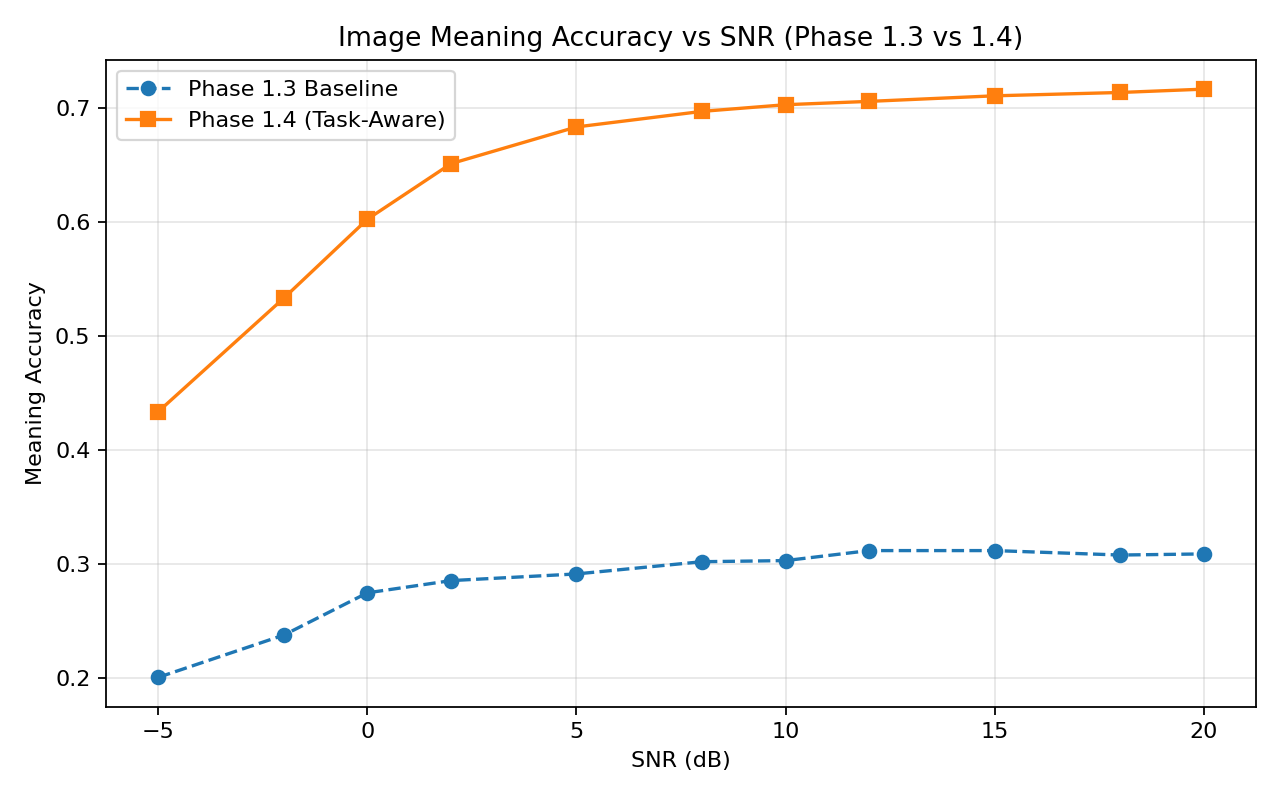
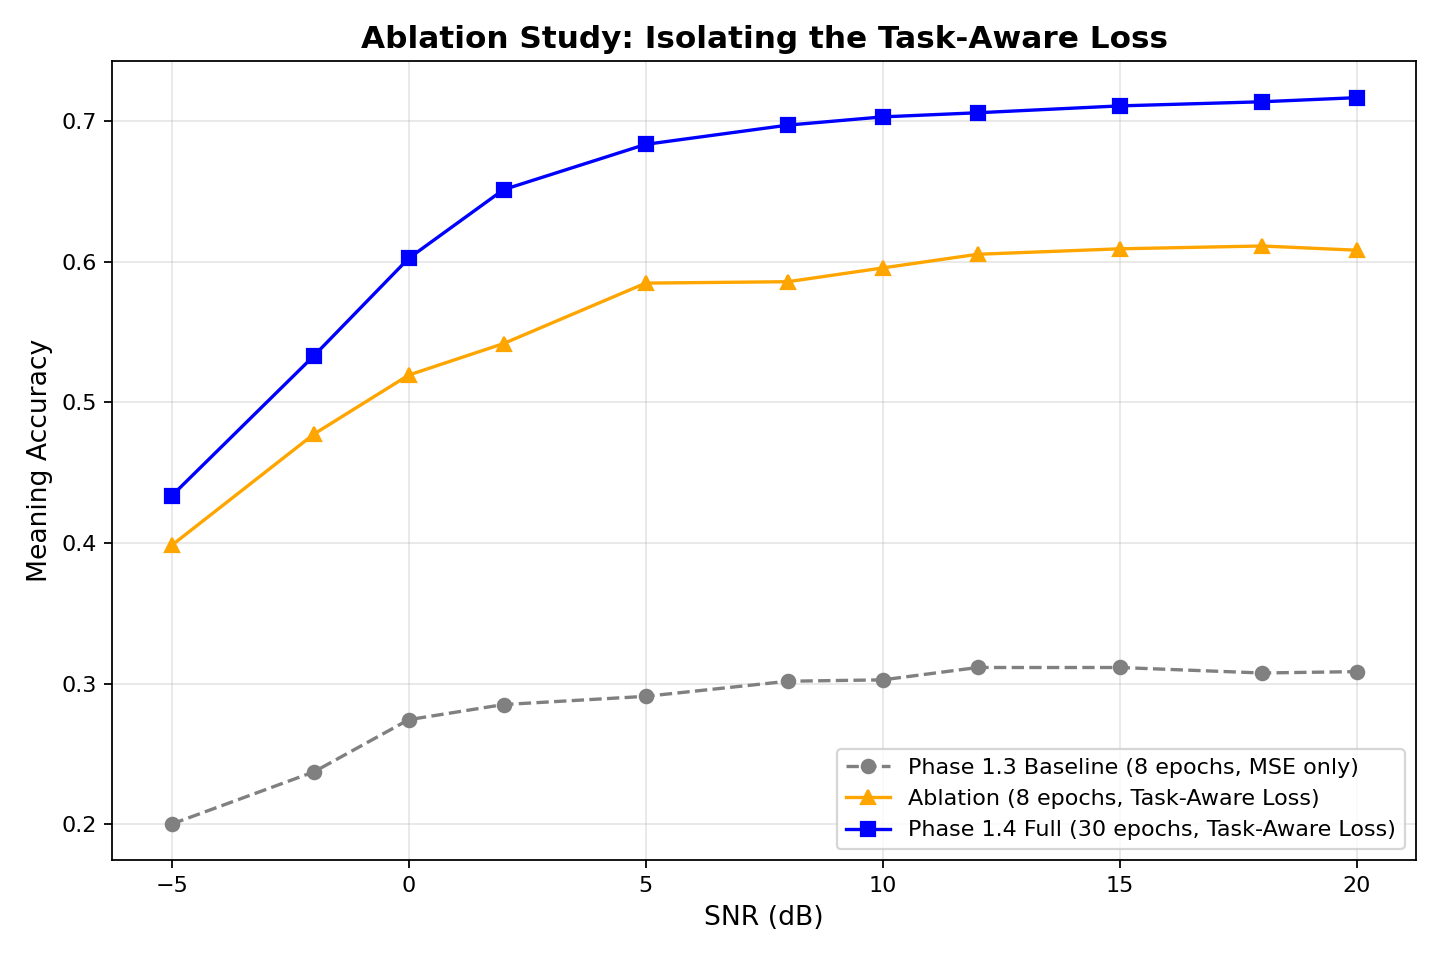
Update meaning accuracy plot to include 8-epoch ablation curve

diff --git a/scripts/plot_ablation.py b/scripts/plot_ablation.py
@@ -1,0 +1,52 @@
+import matplotlib
+matplotlib.use("Agg")
+import matplotlib.pyplot as plt
+import csv
+from pathlib import Path
+
+def load_csv(path: Path) -> dict[str, list[float]]:
+    if not path.exists():
+        return {}
+    data = {}
+    with open(path, "r", encoding="utf-8") as f:
+        reader = csv.DictReader(f)
+        for row in reader:
+            for k, v in row.items():
+                if v.strip():
+                    data.setdefault(k, []).append(float(v))
+    return data
+
+def main():
+    p13_dir = Path("results_archive/phase1_3_baseline")
+    out_dir = Path("outputs")
+    
+    p13_img = load_csv(p13_dir / "snr_sweep_metrics.csv")
+    p14_full = load_csv(out_dir / "snr_sweep_metrics.csv")
+    
+    # Hardcoded ablation data from logs
+    snrs = [-5.0, -2.0, 0.0, 2.0, 5.0, 8.0, 10.0, 12.0, 15.0, 18.0, 20.0]
+    ablation_acc = [0.3984, 0.4775, 0.5195, 0.5419, 0.5849, 0.5859, 0.5957, 0.6054, 0.6093, 0.6113, 0.6083]
+    
+    plt.figure(figsize=(9, 6))
+    
+    if "semantic_meaning_acc" in p13_img and "snr_db" in p13_img:
+        plt.plot(p13_img["snr_db"], p13_img["semantic_meaning_acc"], marker="o", linestyle="--", color="gray", label="Phase 1.3 Baseline (8 epochs, MSE only)")
+        
+    plt.plot(snrs, ablation_acc, marker="^", linestyle="-", color="orange", label="Ablation (8 epochs, Task-Aware Loss)")
+    
+    if "semantic_meaning_acc" in p14_full and "snr_db" in p14_full:
+        plt.plot(p14_full["snr_db"], p14_full["semantic_meaning_acc"], marker="s", linestyle="-", color="blue", label="Phase 1.4 Full (30 epochs, Task-Aware Loss)")
+        
+    plt.xlabel("SNR (dB)", fontsize=12)
+    plt.ylabel("Meaning Accuracy", fontsize=12)
+    plt.title("Ablation Study: Isolating the Task-Aware Loss", fontsize=14, fontweight="bold")
+    plt.grid(True, alpha=0.3)
+    plt.legend(fontsize=10)
+    plt.tight_layout()
+    
+    output_path = out_dir / "compare_image_meaning_acc_ablation.png"
+    plt.savefig(output_path, dpi=160)
+    print(f"Saved {output_path}")
+
+if __name__ == "__main__":
+    main()